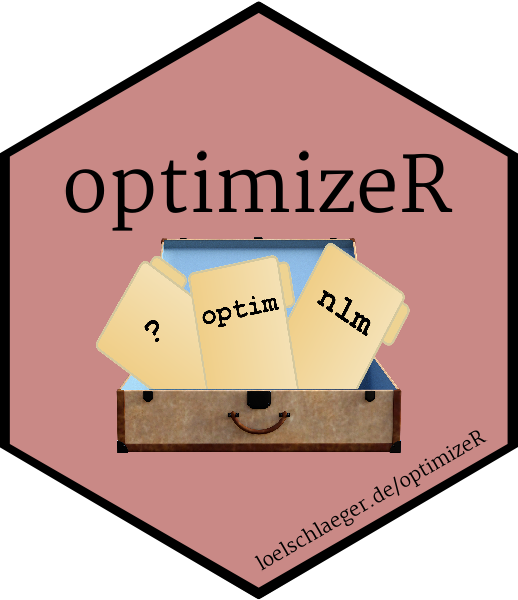
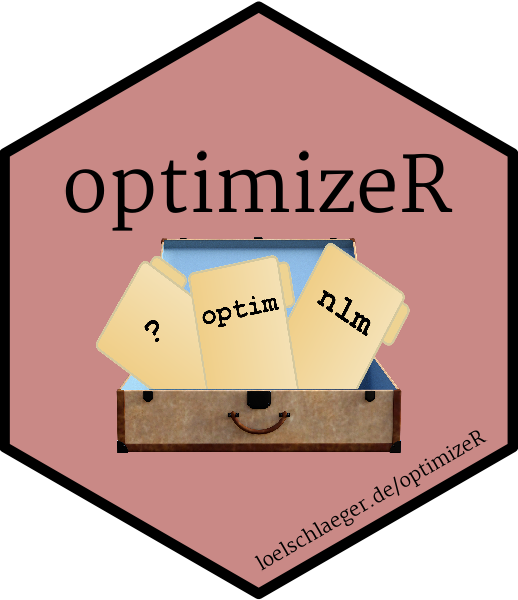
removed whitespace around sticker

diff --git a/README.md b/README.md
@@ -105,7 +105,7 @@ str(results)
 #>  $ stats::nlm         :List of 7
 #>   ..$ value     : num 1.66e-06
 #>   ..$ parameter : num [1:2] -2.91e-07 5.08e-07
-#>   ..$ seconds   : num 0.0317
+#>   ..$ seconds   : num 0.0316
 #>   ..$ initial   : num [1:2] -1 1
 #>   ..$ gradient  : num [1:2] -0.00824 0.0144
 #>   ..$ code      : int 2
@@ -113,7 +113,7 @@ str(results)
 #>  $ stats::optim       :List of 7
 #>   ..$ value      : num 3.57
 #>   ..$ parameter  : num [1:2] -0.969 0.969
-#>   ..$ seconds    : num 0.000515
+#>   ..$ seconds    : num 0.000361
 #>   ..$ initial    : num [1:2] -1 1
 #>   ..$ counts     : Named int [1:2] 45 NA
 #>   .. ..- attr(*, "names")= chr [1:2] "function" "gradient"
@@ -122,7 +122,7 @@ str(results)
 #>  $ pracma::nelder_mead:List of 7
 #>   ..$ value      : num 0
 #>   ..$ parameter  : num [1:2] 0 0
-#>   ..$ seconds    : num 0.00211
+#>   ..$ seconds    : num 0.0014
 #>   ..$ initial    : num [1:2] -1 1
 #>   ..$ count      : num 111
 #>   ..$ convergence: num 0
